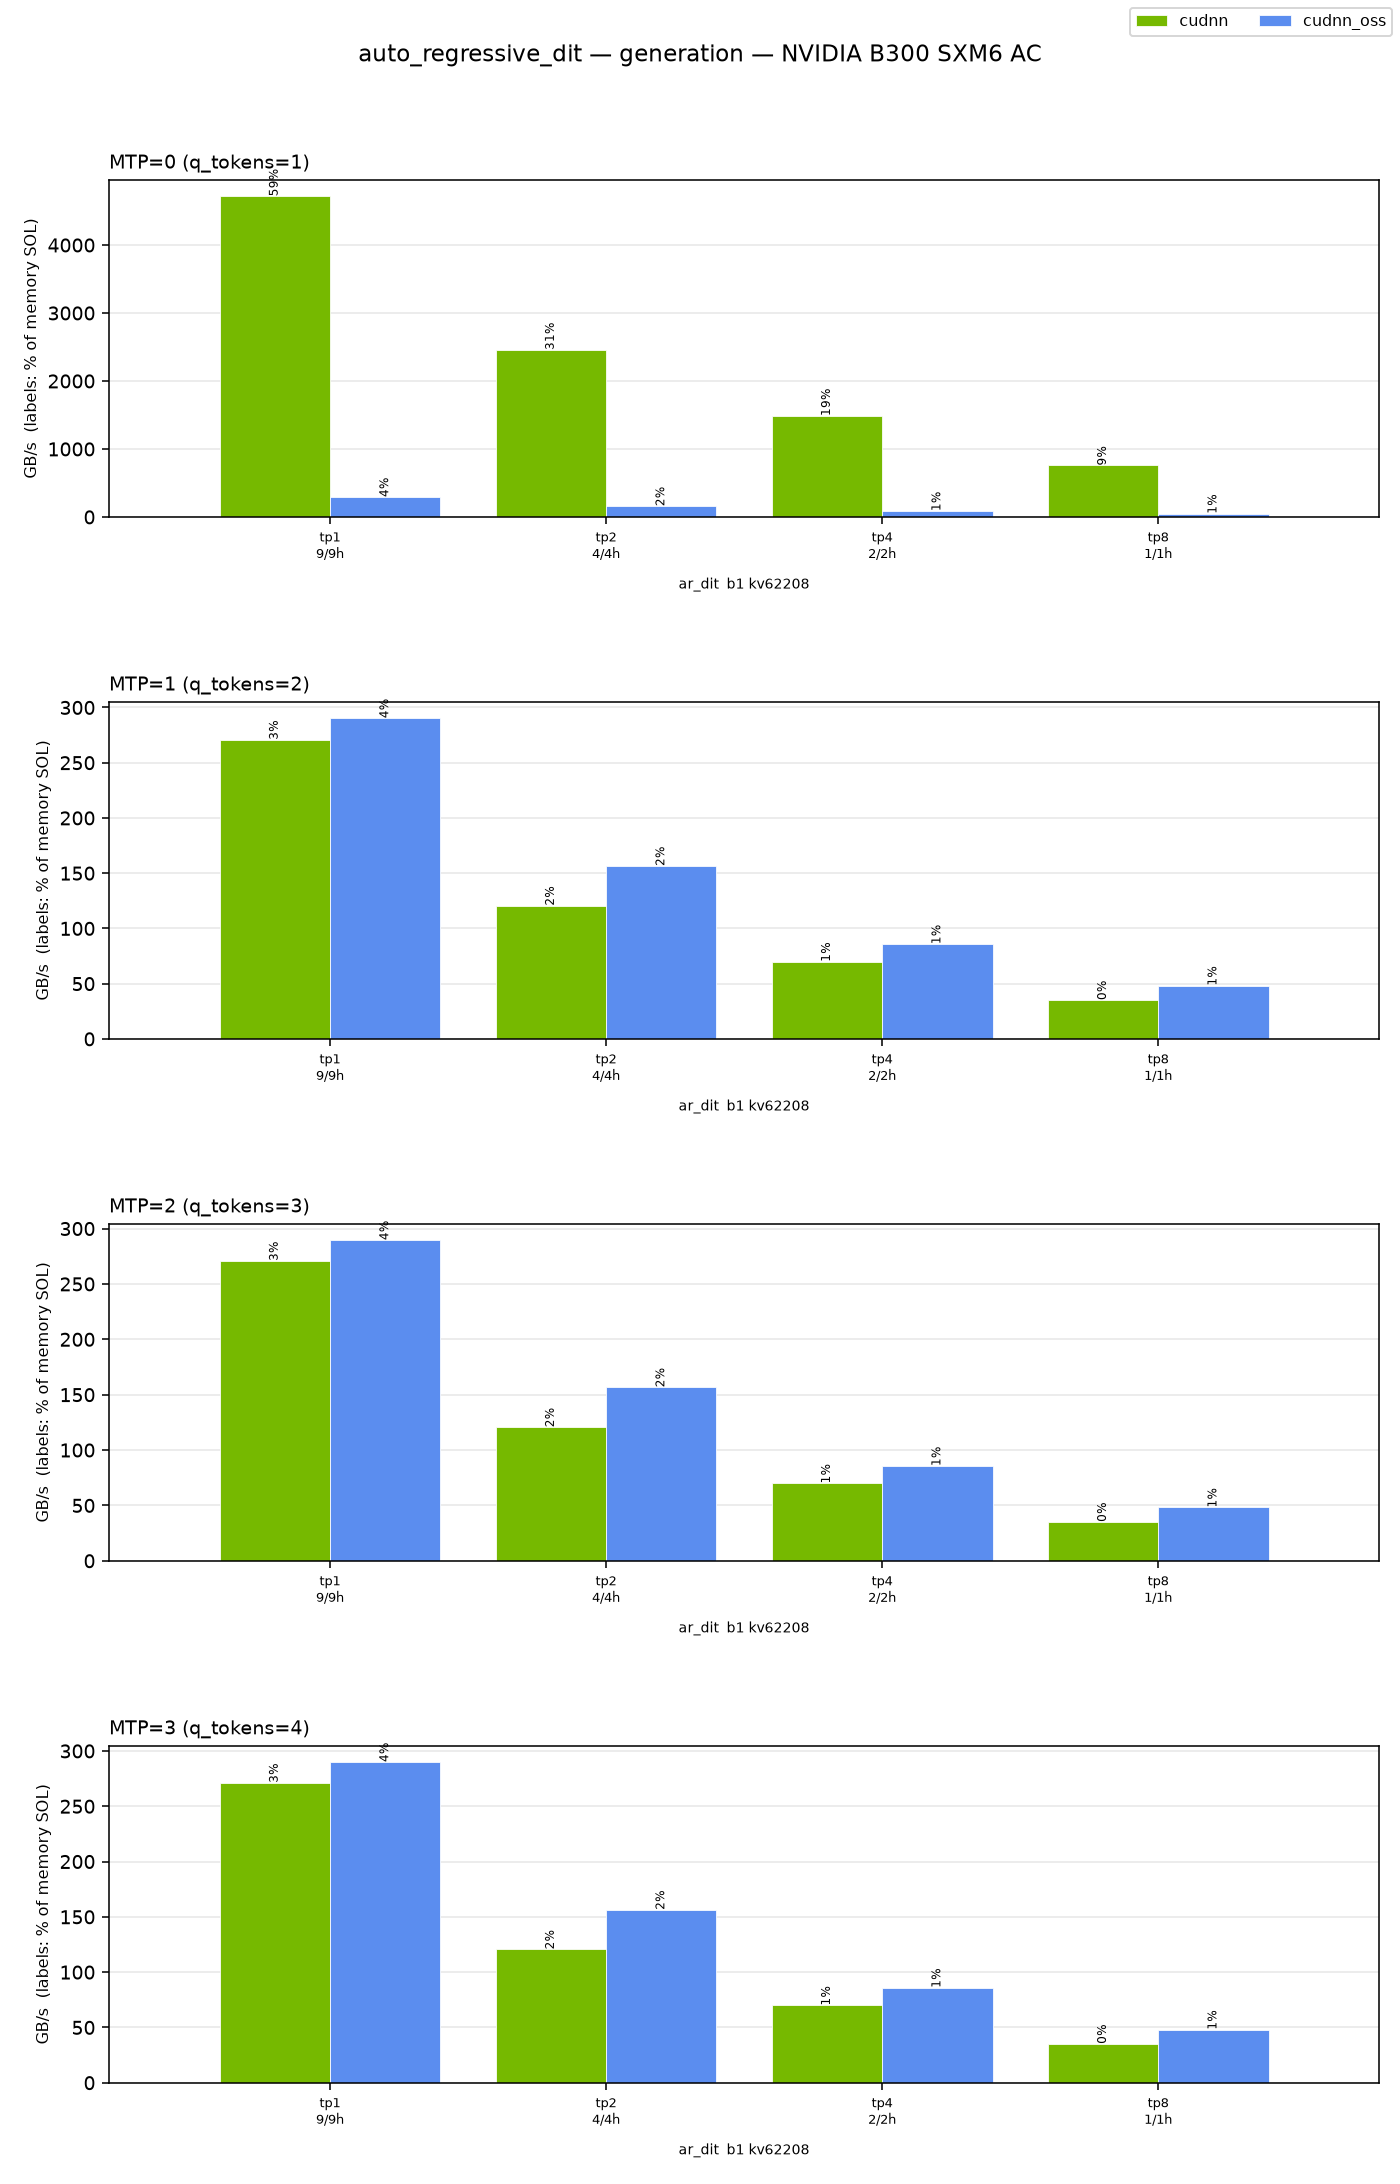
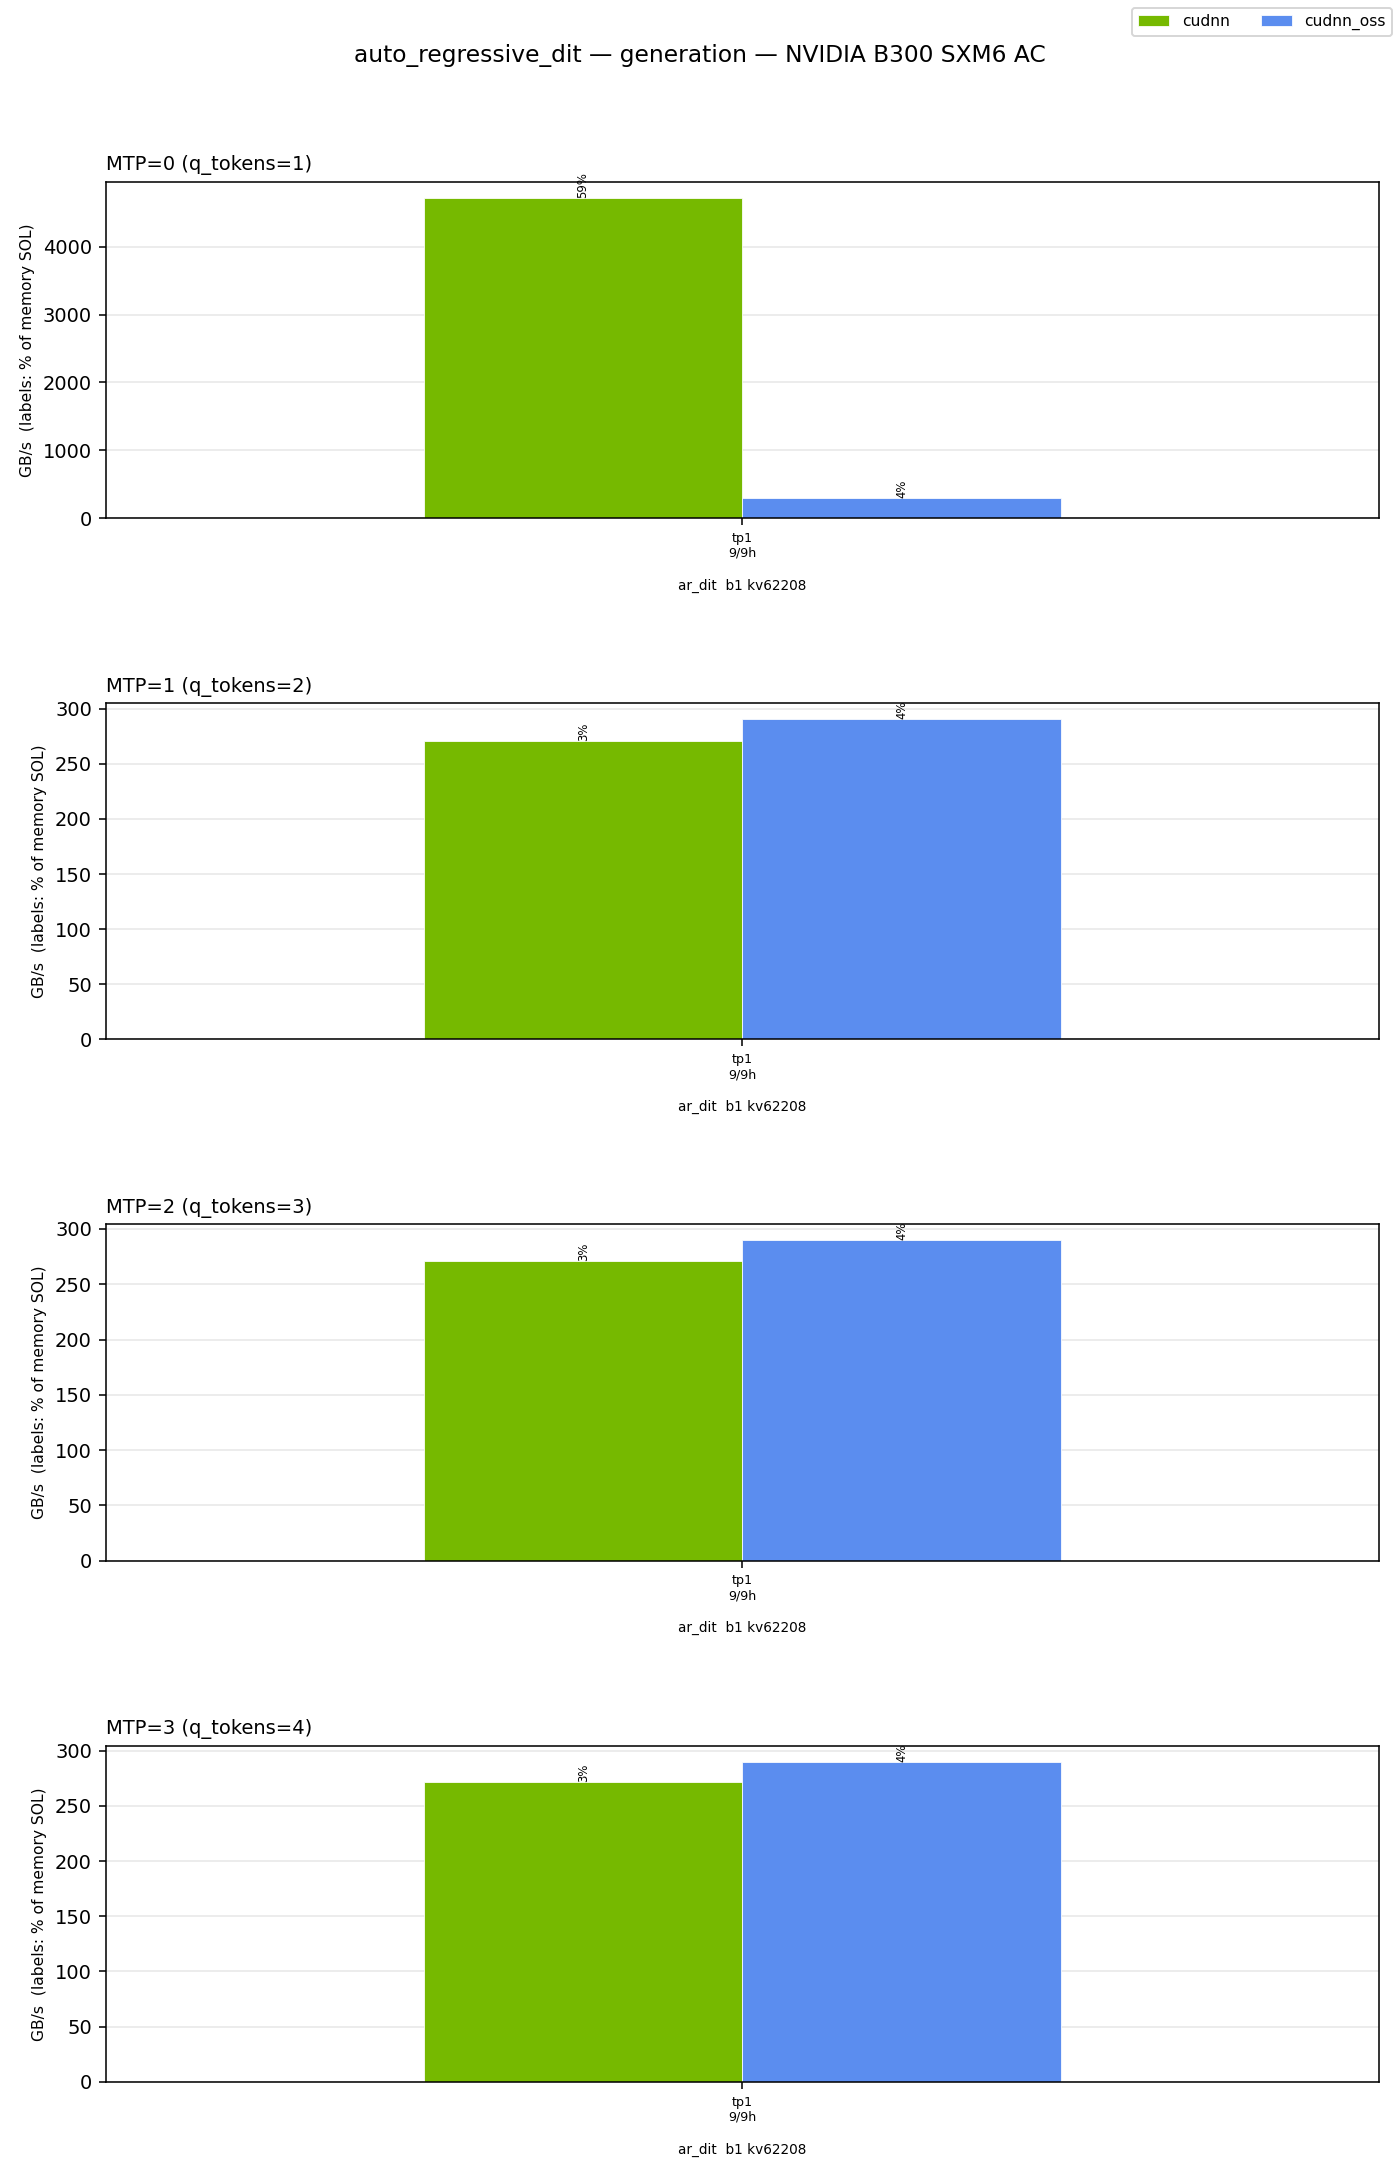
attention_inference: address review — practical TP sharding, fp8 fixes, doc/tooling cleanups
- with_tp_shards now enforces what serving frameworks do: q heads must
  divide evenly, kv heads divide or replicate (tp % kv == 0); anything
  else raises. The 9-head video DiT accordingly runs whole-model only
  (deployments use sequence/context parallelism, not head sharding).
- fp8 graph: reject sink presets instead of silently dropping the sink
  logits; anchor the q=1 sliding window bottom-right like the bf16 path;
  count Q/O bytes at 1B on the cudnn fp8 paths (q/k/v/o are all e4m3).
- config docs reconciled with behavior: dsv4 benchmarks the unwindowed
  shared-KV core (stated, not promised-windowed), kimi context sweeps
  document the intentional blank slots, kv_cache_dtypes explains the
  full-fp8 realization.
- load_config no longer swallows missing dependencies from inside valid
  config modules; dry runs honor --filter/--phase; run_all.sh guards cd,
  validates config names, and mkdirs the log directory.

diff --git a/benchmark/attention_inference/config_types.py b/benchmark/attention_inference/config_types.py
@@ -60,9 +60,12 @@ class ModelPreset:
 def with_tp_shards(preset: "ModelPreset", degrees: List[int]) -> List["ModelPreset"]:
     """Expand a whole-model preset into per-GPU tensor-parallel shards.
 
-    TP=1 keeps the original preset; TP=n divides q heads by n and kv heads by
-    n (floored at 1 — kv heads replicate once the group is exhausted), naming
-    the shard "<name>-tp<n>".
+    Follows what serving frameworks actually do: q heads must divide evenly
+    across ranks, and kv heads either divide evenly or are replicated when
+    there are fewer kv heads than ranks (which requires tp % num_kv_heads ==
+    0, each rank then holding one kv head). Anything else is rejected — a
+    model that doesn't shard this way isn't head-parallelized in practice.
+    TP=1 keeps the original preset; shards are named "<name>-tp<n>".
     """
     from dataclasses import replace
 
@@ -70,15 +73,19 @@ def with_tp_shards(preset: "ModelPreset", degrees: List[int]) -> List["ModelPres
     for n in degrees:
         if n == 1:
             out.append(preset)
-        else:
-            out.append(
-                replace(
-                    preset,
-                    name=f"{preset.name}-tp{n}",
-                    num_q_heads=max(1, preset.num_q_heads // n),
-                    num_kv_heads=max(1, preset.num_kv_heads // n),
-                )
+            continue
+        if preset.num_q_heads % n != 0:
+            raise ValueError(f"{preset.name}: {preset.num_q_heads} q heads do not shard across tp={n}")
+        if preset.num_kv_heads % n != 0 and n % preset.num_kv_heads != 0:
+            raise ValueError(f"{preset.name}: {preset.num_kv_heads} kv heads neither divide nor replicate across tp={n}")
+        out.append(
+            replace(
+                preset,
+                name=f"{preset.name}-tp{n}",
+                num_q_heads=preset.num_q_heads // n,
+                num_kv_heads=max(1, preset.num_kv_heads // n),
             )
+        )
     return out
 
 
@@ -100,8 +107,10 @@ class InferenceBenchmarkConfig:
     backends: List[str] = field(default_factory=lambda: ["cudnn"])
     data_types: List[str] = field(default_factory=lambda: ["bfloat16"])
     # KV-cache dtype axis for the generation phase ("bfloat16", "fp8_e4m3").
-    # Serving deployments increasingly hold the KV cache in fp8 while queries
-    # stay bf16; context always uses data_types.
+    # Named for the serving configuration it corresponds to (fp8 KV cache);
+    # NB the cudnn paths realize "fp8_e4m3" as the full fp8 attention graph —
+    # q/k/v/o all e4m3 with unit descales — not bf16 queries against an fp8
+    # cache. Context always uses data_types.
     kv_cache_dtypes: List[str] = field(default_factory=lambda: ["bfloat16"])
     context_batch_size: int = 1
     generation_batch_sizes: List[int] = field(default_factory=lambda: [1, 32])

diff --git a/benchmark/attention_inference/configs/deepseek_v4.py b/benchmark/attention_inference/configs/deepseek_v4.py
@@ -11,10 +11,12 @@ and a sliding-window branch of 128. Config values from the official
 deepseek-ai/DeepSeek-V4-Flash and -Pro configs (head_dim=512,
 qk_rope_head_dim=64, num_key_value_heads=1).
 
-The dense core benchmarked here is the sliding-window MQA every layer runs;
-the CSA/HCA compressed-pool + lightning-indexer machinery is out of scope for
-a single-kernel benchmark. Modeled as kind="mla_absorbed" so KV bytes are
-counted once for the shared record.
+The presets benchmark the dense shared-K=V core UNWINDOWED: the production
+W=128 sliding window reads at most 128 cached tokens, which is not a
+KV-cache-bound problem, so the unwindowed sweep is the upper-bound stress on
+the shared record (the CSA/HCA compressed-pool + lightning-indexer machinery
+is likewise out of scope for a single-kernel benchmark). Modeled as
+kind="mla_absorbed" so KV bytes are counted once for the shared record.
 """
 
 from ..config_types import InferenceBenchmarkConfig, ModelPreset, with_tp_shards
@@ -40,9 +42,7 @@ DSV4_PRO = ModelPreset(
 CONFIG = InferenceBenchmarkConfig(
     name="deepseek_v4",
     models=with_tp_shards(DSV4_FLASH, [1, 2, 4, 8]) + with_tp_shards(DSV4_PRO, [1, 2, 4, 8]),
-    # Context: the sliding-window dense core over the full sequence would be
-    # SWA-dominated; benchmark the unwindowed core at moderate lengths plus
-    # the windowed shape (window covers locality; pools cover long range).
+    # Context: unwindowed core at moderate lengths (see module docstring).
     context_seqlens=[2048, 8192],
     context_chunked_shapes=[
         (512, 65536),

diff --git a/benchmark/attention_inference/benchmark_single_attention.py b/benchmark/attention_inference/benchmark_single_attention.py
@@ -217,6 +217,8 @@ def setup_cudnn_oss(args, dtype):
 
 def setup_cudnn_fp8(args, cudnn, oss=False):
     """FP8 attention graph (q/k/v e4m3 with unit descales) for the fp8-KV axis."""
+    if args.has_sink:
+        raise NotImplementedError("sink tokens are not wired into the fp8 attention graph")
     b, hq, hkv = args.batch_size, args.num_q_heads, args.num_kv_heads
     dqk, dvo = args.head_dim_qk, args.head_dim_vo
     sq, skv = args.q_tokens, args.kv_len
@@ -252,6 +254,10 @@ def setup_cudnn_fp8(args, cudnn, oss=False):
             kwargs["use_causal_mask_bottom_right"] = True
     if args.sliding_window_size:
         kwargs["sliding_window"] = args.sliding_window_size
+        if args.phase == "generation" and sq == 1:
+            # anchor the window to the END of the cache, mirroring the bf16
+            # path — top-left anchoring would window the wrong tokens
+            kwargs["use_causal_mask_bottom_right"] = True
     ret = graph.sdpa_fp8(**kwargs)
     o, amax_s, amax_o = ret[0], ret[2], ret[3]
     o.set_output(True).set_dim(o_gpu.size()).set_stride(o_gpu.stride())
@@ -728,6 +734,8 @@ def main():
         kv_shared=args.kind == "mla_absorbed",
         sliding_window=args.sliding_window_size,
         kv_elt_size=1 if args.kv_cache_dtype == "fp8_e4m3" else 2,
+        # the cudnn fp8 graph holds Q and O in e4m3 as well
+        qo_elt_size=1 if args.kv_cache_dtype == "fp8_e4m3" and args.backend in ("cudnn", "cudnn_oss") else 2,
     )
     tflops = flops / (ms * 1e-3) / 1e12
     gbps = byts / (ms * 1e-3) / 1e9

diff --git a/benchmark/attention_inference/configs/auto_regressive_dit.py b/benchmark/attention_inference/configs/auto_regressive_dit.py
@@ -13,7 +13,7 @@ against the cached clip for completeness. The training suite carries its own
 forward-only sweep of the same model (`sdpa_benchmark_training`).
 """
 
-from ..config_types import InferenceBenchmarkConfig, ModelPreset, with_tp_shards
+from ..config_types import InferenceBenchmarkConfig, ModelPreset
 
 AR_DIT = ModelPreset(
     name="ar_dit",
@@ -24,7 +24,9 @@ AR_DIT = ModelPreset(
 
 CONFIG = InferenceBenchmarkConfig(
     name="auto_regressive_dit",
-    models=with_tp_shards(AR_DIT, [1, 2, 4, 8]),
+    # No TP shards: 9 heads don't head-shard, and video DiT deployments use
+    # sequence/context parallelism — attention runs whole-model per device.
+    models=[AR_DIT],
     context_seqlens=[8192, 62208],
     context_chunked_shapes=[
         (985, 62208),

diff --git a/benchmark/attention_inference/runner.py b/benchmark/attention_inference/runner.py
@@ -273,6 +273,10 @@ def main():
         cases = list(runner.expand_config(config))
         if args.filter_backend:
             cases = [c for c in cases if c["backend"] == args.filter_backend]
+        if args.filter_model:
+            cases = [c for c in cases if args.filter_model in c["model"].name]
+        if args.filter_phase:
+            cases = [c for c in cases if c["phase"] == args.filter_phase]
         print(f"Would run {len(cases)} cases from '{config.name}':")
         for i, c in enumerate(cases, 1):
             print(f"  [{i}] {c['model'].name} | {c['phase']} | b={c['batch_size']} q={c['q_tokens']} kv={c['kv_len']} | {c['backend']} | {c['data_type']}")

diff --git a/benchmark/attention_inference/configs/kimi_k3.py b/benchmark/attention_inference/configs/kimi_k3.py
@@ -12,9 +12,10 @@ raw QK width 192 (qk_nope 128 + 64). 96 query heads. Config values from the
 official moonshotai/Kimi-K3 config.json.
 
 Generation runs the absorbed shape (576/512 shared record, MQA-style).
-Context (prefill) for MLA models runs unabsorbed — that is the training
-suite's kimi_k3 config (96 heads, d_qk=192, d_v=128) — so this config only
-sweeps generation.
+Context (prefill) for latent-absorbed MLA runs unabsorbed — that is the
+training suite's kimi_k3 config (96 heads, d_qk=192, d_v=128). The context
+shapes below are still swept so the coverage gap shows up as blank slots in
+the charts rather than silently missing.
 """
 
 import math

diff --git a/benchmark/attention_inference/configs/__init__.py b/benchmark/attention_inference/configs/__init__.py
@@ -12,6 +12,10 @@ def list_configs():
 def load_config(name: str):
     try:
         module = importlib.import_module(f".{name}", __package__)
-    except ModuleNotFoundError:
-        raise ValueError(f"Unknown config '{name}'. Available: {', '.join(list_configs())}")
+    except ModuleNotFoundError as e:
+        # only translate "no such config module" — a missing dependency raised
+        # from inside a valid config module must propagate as itself
+        if e.name == f"{__package__}.{name}":
+            raise ValueError(f"Unknown config '{name}'. Available: {', '.join(list_configs())}") from None
+        raise
     return module.CONFIG

diff --git a/benchmark/attention_inference/charts.py b/benchmark/attention_inference/charts.py
@@ -122,6 +122,8 @@ def _plot_phase(df, config, phase: str, outdir: Path) -> List[Path]:
     # hold their slot as a blank bar.
     pdf = df[df.phase == phase].copy()
     pdf = pdf[pdf.backend.isin(BACKEND_ORDER)]
+    # older CSVs may carry model shards the config has since dropped
+    pdf = pdf[pdf.model_name.isin({m.name for m in config.models})]
     if phase == "generation":
         # honor the config's current axes: older CSVs may carry batches or
         # cache lengths the config has since dropped as redundant

diff --git a/benchmark/attention_inference/README.md b/benchmark/attention_inference/README.md
@@ -37,13 +37,17 @@ in the charts. Additional reference backends (`flashinfer`, `flash_mla`,
 | `kimi_k3` | absorbed MLA, 96 heads, 576/512, scale 1/√192, page 32 | context swept but structurally unabsorbed at prefill → blank slots (see training suite) |
 | `auto_regressive_dit` | dense 9/9, d=128, bidirectional | chunked AR steps live in the context phase's chunked kind |
 
-Model dimensions come from the official HuggingFace configs. Every model is
-swept across tensor-parallel shards (**TP 1/2/4/8**) — the `-tpN` presets are
+Model dimensions come from the official HuggingFace configs. Every LLM model
+is swept across tensor-parallel shards (**TP 1/2/4/8**, framework rules: q
+heads divide evenly, kv heads divide or replicate) — the `-tpN` presets are
 the per-GPU shapes deployments actually execute: few local heads, large
-batches. Generation additionally sweeps the KV-cache dtype
-(`kv_cache_dtypes`): bf16 queries against an fp8-e4m3 cache is a standard
-serving configuration. Sinks (`has_sink`) add per-head attention-sink logits
-(gpt-oss-style).
+batches. The 9-head video DiT is not head-shardable and runs whole-model
+(deployments use sequence/context parallelism there). Generation
+additionally sweeps the KV-cache dtype (`kv_cache_dtypes`): this corresponds
+to the fp8-KV-cache serving configuration, realized on the cudnn paths as
+the full fp8 attention graph (q/k/v/o e4m3 with unit descales). Sinks
+(`has_sink`) add per-head attention-sink logits (gpt-oss-style; not wired
+into the fp8 graph — those cases record as unsupported).
 
 MLA models run **absorbed** in generation (`kind="mla_absorbed"`: K reads the
 full record, V a leading slice of the *same* record, so KV bytes are counted
